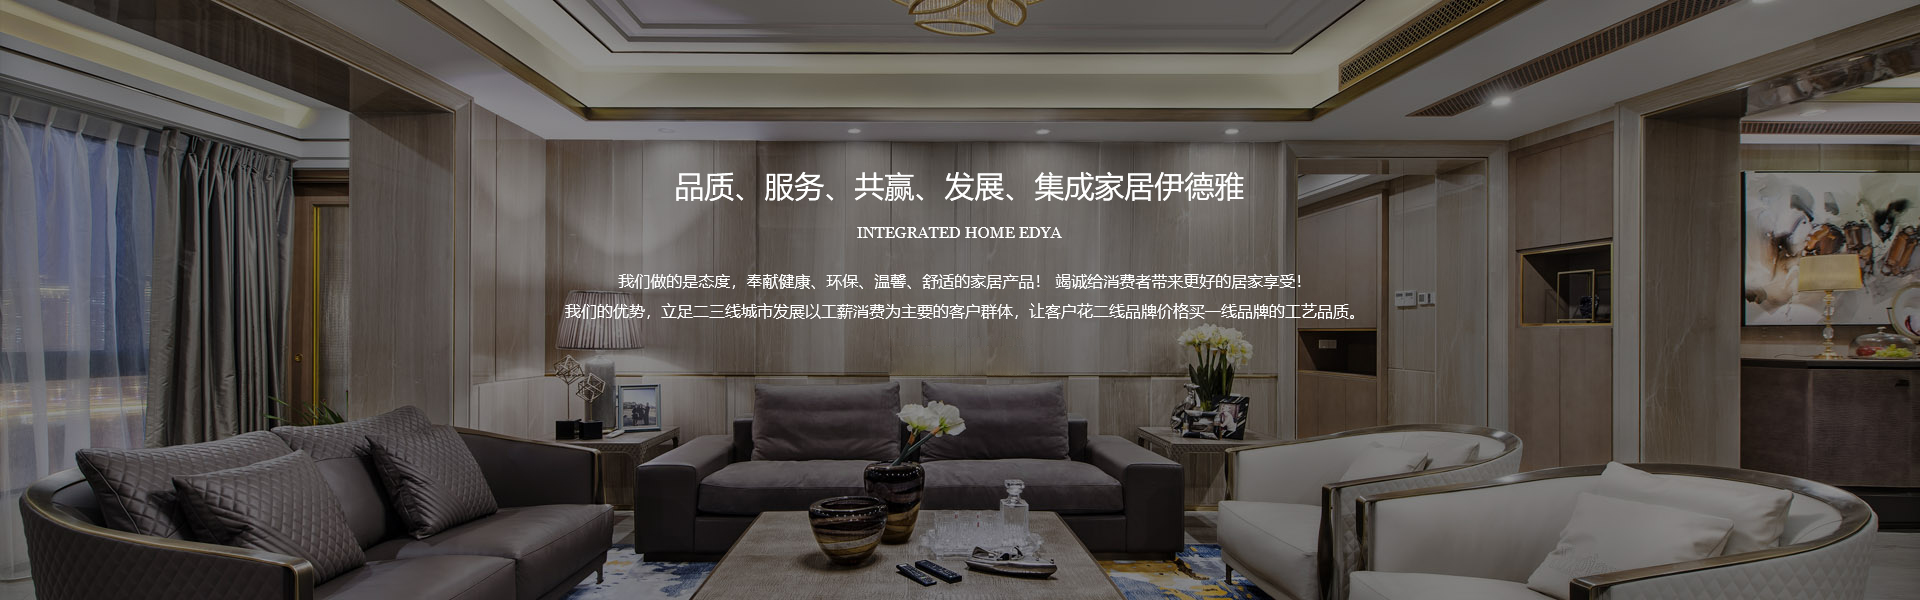
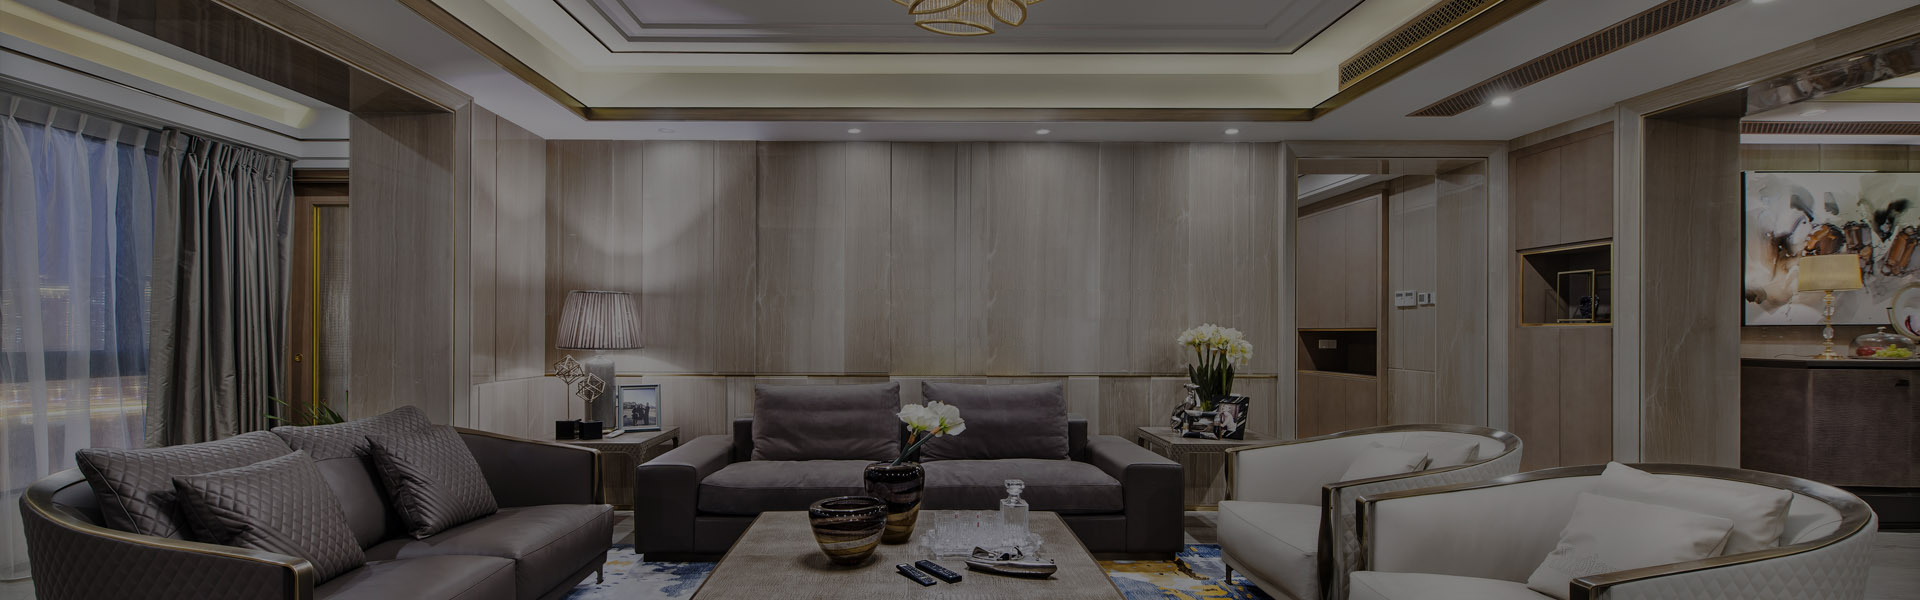
update

diff --git a/css/productsList.css b/css/productsList.css
@@ -107,7 +107,7 @@ body {
 
 .products-filter .filter-head {
 	width: 100%;
-	height: 66px;
+	height: auto;
 	background-color: #312f30;
 	box-sizing: border-box;
 	padding: 20px 70px;
@@ -115,12 +115,13 @@ body {
 }
 
 .filter-head .filter-label{
-	margin-right: 100px;
+	margin-right: 80px;
+	flex-shrink: 0;
 }
 
 
-.filter-head .filter-list .filter-item+.filter-item{
-	margin-left: 40px;
+.filter-head .filter-list .filter-item{
+	margin:0 20px;
 }
 
 .filter-head .filter-list .filter-item a{
@@ -170,7 +171,7 @@ body {
 
 .products-filter .filter-content,
 .filter-head{
-	line-height: 30px;
+	line-height: 26px;
 }
 
 
@@ -189,6 +190,19 @@ body {
 
 /* 移动端 */
 @media screen and (max-width: 767px) {
+	.filter-head .filter-label{
+		margin-right: 14px;
+	}
+	.products-filter .filter-head{
+		padding: 20px;
+	}
+	.products-filter .filter-content{
+		padding: 0 20px;
+	}
+	.products-filter .filter-content .filter-row{
+		padding-left: 0;
+		background: none;
+	}
 	.flow-list{
 		display: none;
 	}

diff --git a/about.html b/about.html
@@ -100,7 +100,16 @@
 						</div>
 					</div>
 				</div>
-				<div class="about-center"></div>
+				<div class="about-center flex-column flex-center flex-align-center">
+					<div class="container">
+						<div class="inside-common-title">
+												<div class="inside-common-title-cn">品质、服务、共赢、发展、集成家居伊德雅</div>
+												<div class="inside-common-title-en">INTEGRATED HOME EDYA</div>
+											</div>
+											<p>我们做的是态度，奉献健康、环保、温馨、舒适的家居产品！ 竭诚给消费者带来更好的居家享受！ 
+						我们的优势，立足二三线城市发展以工薪消费为主要的客户群体，让客户花二线品牌价格买一线品牌的工艺品质。 </p>
+					</div>
+				</div>
 				<div class="about-bottom">
 					<div class="container flex-row flex-between flex-wrap">
 						<div class="about-bottom-left inside-text-content">

diff --git a/css/about.css b/css/about.css
@@ -63,6 +63,24 @@ body {
 	margin-bottom: 5px;
 }
 
+
+.about-center p {
+	width: 100%;
+	max-width: 789px;
+	line-height: 30px;
+}
+
+.about-center .inside-common-title{
+	margin-bottom: 10px;
+}
+
+.about-center,
+.about-center .inside-common-title-cn,
+.about-center .inside-common-title-en {
+	color: #fff !important;
+	text-align: center;
+}
+
 @media screen and (max-width: 1400px) {
 	.about-top {
 		padding-bottom: 50px;
@@ -93,7 +111,8 @@ body {
 		max-width: 100%;
 		margin-top: 20px;
 	}
-	.about-bottom-right .about-img{
+
+	.about-bottom-right .about-img {
 		width: calc(50% - 2.5px);
 	}
 }

diff --git a/css/home.css b/css/home.css
@@ -67,6 +67,11 @@
 	cursor: pointer;
 }
 
+.products-classify-item .item-icon{
+	width: 80px;
+	height: 60px;
+}
+
 .products-classify-item .item-icon img {
 	display: block;
 	margin: 0 auto;
@@ -611,7 +616,7 @@
 }
 
 /* 移动端 */
-@media screen and (max-width: 768px) {
+@media screen and (max-width: 767px) {
 	.about {
 		padding-top: 40px;
 		padding-bottom: 60px;
